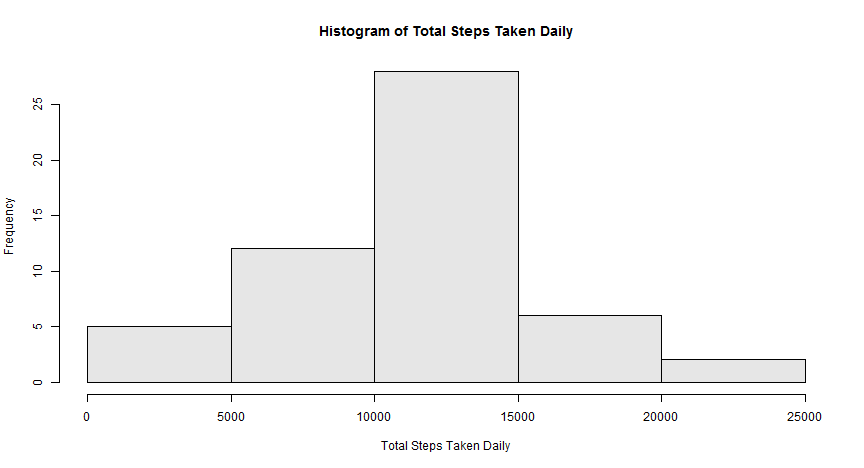
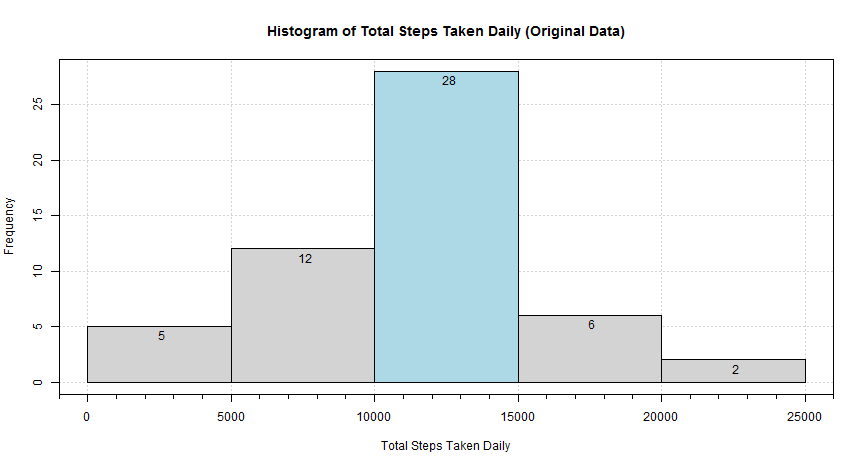
PA1 Submission v.2.0 on Jan. 17

Changed region(s): [[0.4062, 0.1496, 0.625, 0.8376], [0.3125, 0.0598, 0.75, 0.0897], [0.3438, 0.5385, 0.375, 0.5684]]

diff --git a/PA1_Submission.html b/PA1_Submission.html
@@ -93,6 +93,10 @@ Sys.setlocale(&quot;LC_TIME&quot;, &quot;English&quot;)</code></pre>
     install.packages(&quot;scales&quot;, dependencies=TRUE)
 }
 
+if (!require(&quot;Hmisc&quot;, quietly=TRUE)) {
+    install.packages(&quot;Hmisc&quot;, dependencies=TRUE)
+}
+
 if (!require(&quot;plyr&quot;, quietly=TRUE)) {
     install.packages(&quot;plyr&quot;, dependencies=TRUE)
 }
@@ -159,12 +163,28 @@ head(processedData, n=3)</code></pre>
 <pre class="r"><code># Calculate sum of steps by date
 stepSumByDate &lt;- aggregate(steps ~ date, data=processedData, sum, na.action=na.pass)
 
+# Get bins label elements (x, y)
+histObj &lt;- hist(stepSumByDate$steps, plot=FALSE)
+binLabel_x &lt;- histObj$mids + 100
+binLabel_y &lt;- histObj$counts - 0.75
+binLabel &lt;- histObj$counts
+
+# Frequency peak value on figure
+peak &lt;- max(binLabel)
+
 # The following is the histogram of the total number of steps taken each day
-hist(stepSumByDate$steps, 
-     col = gray(0.9), 
-     main = &quot;Histogram of Total Steps Taken Daily&quot;, 
-     xlab = &quot;Total Steps Taken Daily&quot;)</code></pre>
[1 lines of base64/hex data omitted]
+hist(stepSumByDate$steps,
+     main = &quot;Histogram of Total Steps Taken Daily (Original Data)&quot;, 
+     xlab = &quot;Total Steps Taken Daily&quot;)
+grid()
+hist(stepSumByDate$steps,
+     add = TRUE,
+     labels = FALSE,
+     col = c(rep(&quot;lightgray&quot;, 2),&quot;lightblue&quot;, rep(&quot;lightgray&quot;, 2)))
+minor.tick(nx=5, ny=1, tick.ratio=0.5)
+text(binLabel_x, binLabel_y, binLabel)
+box()</code></pre>
[1 lines of base64/hex data omitted]
 <p><b>2. Calculate and report the mean and median total number of steps taken per day</b></p>
 <pre class="r"><code># Calculate mean of total steps per day, the value rounded and converted to characters for display.
 stepMeanDaily &lt;- as.character(round(mean(stepSumByDate$steps, na.rm=TRUE)))
@@ -188,8 +208,7 @@ dateTime &lt;- c(paste0(as.character(sprintf(&quot;%02d&quot;, dateTime$hour)), 
 
 # The following is the figure of the mean of steps taken per time interval across measured 61 days
 plot(stepMeanPerInterval$interval, stepMeanPerInterval$steps,
-     type = &quot;l&quot;, 
-     col = &quot;red&quot;,
+     type = &quot;n&quot;, 
      axes = FALSE,
      main = &quot;Mean of Steps per 5-minute Intervals Daily&quot;,
      xlab = &quot;Daily 5-minute Time Intervals (00:00-23:55)&quot;, 
@@ -198,8 +217,9 @@ axis(1, seq(0,2400,100), dateTime[seq(1,289,12)])
 axis(2)
 abline(v = seq(0,2400,100), col = &quot;lightgray&quot;, lty = &quot;dotted&quot;)
 abline(h = seq(0,200,50), col = &quot;lightgray&quot;, lty = &quot;dotted&quot;)
+lines(stepMeanPerInterval$interval, stepMeanPerInterval$steps, col = &quot;red&quot;,)
 box()</code></pre>
[2 lines of base64/hex data omitted]
 <p><b>2. Which 5-minute interval, on average across all the days in the dataset, contains the maximum number of steps? </b></p>
 <pre class="r"><code># Find the most active 5-minute interval daily
 activeInterval &lt;- stepMeanPerInterval$interval[stepMeanPerInterval$steps == max(stepMeanPerInterval$steps)]
@@ -239,19 +259,35 @@ head(rawDataImputed, n=3)</code></pre>
 processedDataImputed &lt;- rawDataImputed
 stepSumByDateNew &lt;- aggregate(steps ~ date, data=processedDataImputed, sum, na.action=na.pass)
 
+# Get bins label elements (x, y)
+histObjNew &lt;- hist(stepSumByDateNew$steps, plot=FALSE)
+binLabelNew_x &lt;- histObjNew$mids + 100
+binLabelNew_y &lt;- histObjNew$counts - 0.75
+binLabelNew &lt;- histObjNew$counts
+
+# Frequency peak value on figure
+peakNew &lt;- max(binLabelNew)
+
 # The following is the histogram of the total number of steps taken each day
 hist(stepSumByDateNew$steps,
-     col = gray(0.8), 
-     main = &quot;Histogram of Total Steps Taken Daily (Data Imputed)&quot;, 
-     xlab = &quot;Total Steps Taken Daily&quot;)</code></pre>
[1 lines of base64/hex data omitted]
+     main = &quot;Histogram of Total Steps Taken Daily (Data Imputed)&quot;,
+     xlab = &quot;Total Steps Taken Daily&quot;)
+grid()
+hist(stepSumByDateNew$steps,
+     add = TRUE,
+     labels = FALSE,
+     col = c(rep(&quot;lightgray&quot;, 2),&quot;lightblue&quot;, rep(&quot;lightgray&quot;, 2)))
+minor.tick(nx=5, ny=1, tick.ratio=0.5)
+text(binLabelNew_x, binLabelNew_y, binLabelNew)
+box()</code></pre>
[1 lines of base64/hex data omitted]
 <pre class="r"><code># Calculate mean of total steps per day, the value rounded and converted to characters for display.
 stepMeanDailyNew &lt;- as.character(round(mean(stepSumByDateNew$steps)))
 
 # Calculate median of total steps per day,the value rounded and converted to characters for display.
 stepMedianDailyNew &lt;- as.character(round(median(stepSumByDateNew$steps)))</code></pre>
 <p>So the new mean of total number of steps taken per day is <b>10766</b>, and the new median of total number of steps taken per day is <b>10762</b>.</p>
-<p>Because I used the mean value of 5-minute interval across the 61 measured days filling in all of the missing values in the dataset, the new mean value remained the same as the previous one. However, the new median value shifted to a lower value slightly. Meanwhile, when we look at the histogram (with data imputed), we found that the frequency of a range from 10000-15000 steps daily got a big increase comparing to the previous histogram (with original data).</p>
+<p>Because I used the mean value of 5-minute interval across the 61 measured days filling in all of the missing values in the dataset, the new mean value remained the same as the previous one. However, the new median value shifted to a lower value slightly. Meanwhile, when we look at the histogram (with data imputed), we found that the frequency of a range from 10000-15000 steps daily got a big increase comparing to the previous histogram (increased from <b>28</b> to <b>36</b>).</p>
 <hr />
 </div>
 <div id="task-5-are-there-differences-in-activity-patterns-between-weekdays-and-weekends" class="section level3">

diff --git a/PA1_Submission.md b/PA1_Submission.md
@@ -48,6 +48,10 @@ if (!require("scales", quietly=TRUE)) {
     install.packages("scales", dependencies=TRUE)
 }
 
+if (!require("Hmisc", quietly=TRUE)) {
+    install.packages("Hmisc", dependencies=TRUE)
+}
+
 if (!require("plyr", quietly=TRUE)) {
     install.packages("plyr", dependencies=TRUE)
 }
@@ -145,11 +149,27 @@ tail(processedData, n=3)
 # Calculate sum of steps by date
 stepSumByDate <- aggregate(steps ~ date, data=processedData, sum, na.action=na.pass)
 
+# Get bins label elements (x, y)
+histObj <- hist(stepSumByDate$steps, plot=FALSE)
+binLabel_x <- histObj$mids + 100
+binLabel_y <- histObj$counts - 0.75
+binLabel <- histObj$counts
+
+# Frequency peak value on figure
+peak <- max(binLabel)
+
 # The following is the histogram of the total number of steps taken each day
-hist(stepSumByDate$steps, 
-     col = gray(0.9), 
-     main = "Histogram of Total Steps Taken Daily", 
+hist(stepSumByDate$steps,
+     main = "Histogram of Total Steps Taken Daily (Original Data)", 
      xlab = "Total Steps Taken Daily")
+grid()
+hist(stepSumByDate$steps,
+     add = TRUE,
+     labels = FALSE,
+     col = c(rep("lightgray", 2),"lightblue", rep("lightgray", 2)))
+minor.tick(nx=5, ny=1, tick.ratio=0.5)
+text(binLabel_x, binLabel_y, binLabel)
+box()
 ```
 
 ![plot of chunk Figure1_HistogramOrigin](figure/Figure1_HistogramOrigin-1.png) 
@@ -182,8 +202,7 @@ dateTime <- c(paste0(as.character(sprintf("%02d", dateTime$hour)), ":",
 
 # The following is the figure of the mean of steps taken per time interval across measured 61 days
 plot(stepMeanPerInterval$interval, stepMeanPerInterval$steps,
-     type = "l", 
-     col = "red",
+     type = "n", 
      axes = FALSE,
      main = "Mean of Steps per 5-minute Intervals Daily",
      xlab = "Daily 5-minute Time Intervals (00:00-23:55)", 
@@ -192,6 +211,7 @@ axis(1, seq(0,2400,100), dateTime[seq(1,289,12)])
 axis(2)
 abline(v = seq(0,2400,100), col = "lightgray", lty = "dotted")
 abline(h = seq(0,200,50), col = "lightgray", lty = "dotted")
+lines(stepMeanPerInterval$interval, stepMeanPerInterval$steps, col = "red",)
 box()
 ```
 
@@ -263,11 +283,27 @@ tail(rawDataImputed, n=3)
 processedDataImputed <- rawDataImputed
 stepSumByDateNew <- aggregate(steps ~ date, data=processedDataImputed, sum, na.action=na.pass)
 
+# Get bins label elements (x, y)
+histObjNew <- hist(stepSumByDateNew$steps, plot=FALSE)
+binLabelNew_x <- histObjNew$mids + 100
+binLabelNew_y <- histObjNew$counts - 0.75
+binLabelNew <- histObjNew$counts
+
+# Frequency peak value on figure
+peakNew <- max(binLabelNew)
+
 # The following is the histogram of the total number of steps taken each day
 hist(stepSumByDateNew$steps,
-     col = gray(0.8), 
-     main = "Histogram of Total Steps Taken Daily (Data Imputed)", 
+     main = "Histogram of Total Steps Taken Daily (Data Imputed)",
      xlab = "Total Steps Taken Daily")
+grid()
+hist(stepSumByDateNew$steps,
+     add = TRUE,
+     labels = FALSE,
+     col = c(rep("lightgray", 2),"lightblue", rep("lightgray", 2)))
+minor.tick(nx=5, ny=1, tick.ratio=0.5)
+text(binLabelNew_x, binLabelNew_y, binLabelNew)
+box()
 ```
 
 ![plot of chunk Figure3_HistogramImputed](figure/Figure3_HistogramImputed-1.png) 
@@ -281,7 +317,7 @@ stepMedianDailyNew <- as.character(round(median(stepSumByDateNew$steps)))
 ```
 So the new mean of total number of steps taken per day is <b>10766</b>, and the new median of total number of steps taken per day is <b>10762</b>.
 
-Because I used the mean value of 5-minute interval across the 61 measured days filling in all of the missing values in the dataset, the new mean value remained the same as the previous one. However, the new median value shifted to a lower value slightly. Meanwhile, when we look at the histogram (with data imputed), we found that the frequency of a range from 10000-15000 steps daily got a big increase comparing to the previous histogram (with original data).   
+Because I used the mean value of 5-minute interval across the 61 measured days filling in all of the missing values in the dataset, the new mean value remained the same as the previous one. However, the new median value shifted to a lower value slightly. Meanwhile, when we look at the histogram (with data imputed), we found that the frequency of a range from 10000-15000 steps daily got a big increase comparing to the previous histogram (increased from <b>28</b> to <b>36</b>).   
 
 ***
 ### Task 5: Are there differences in activity patterns between weekdays and weekends?
